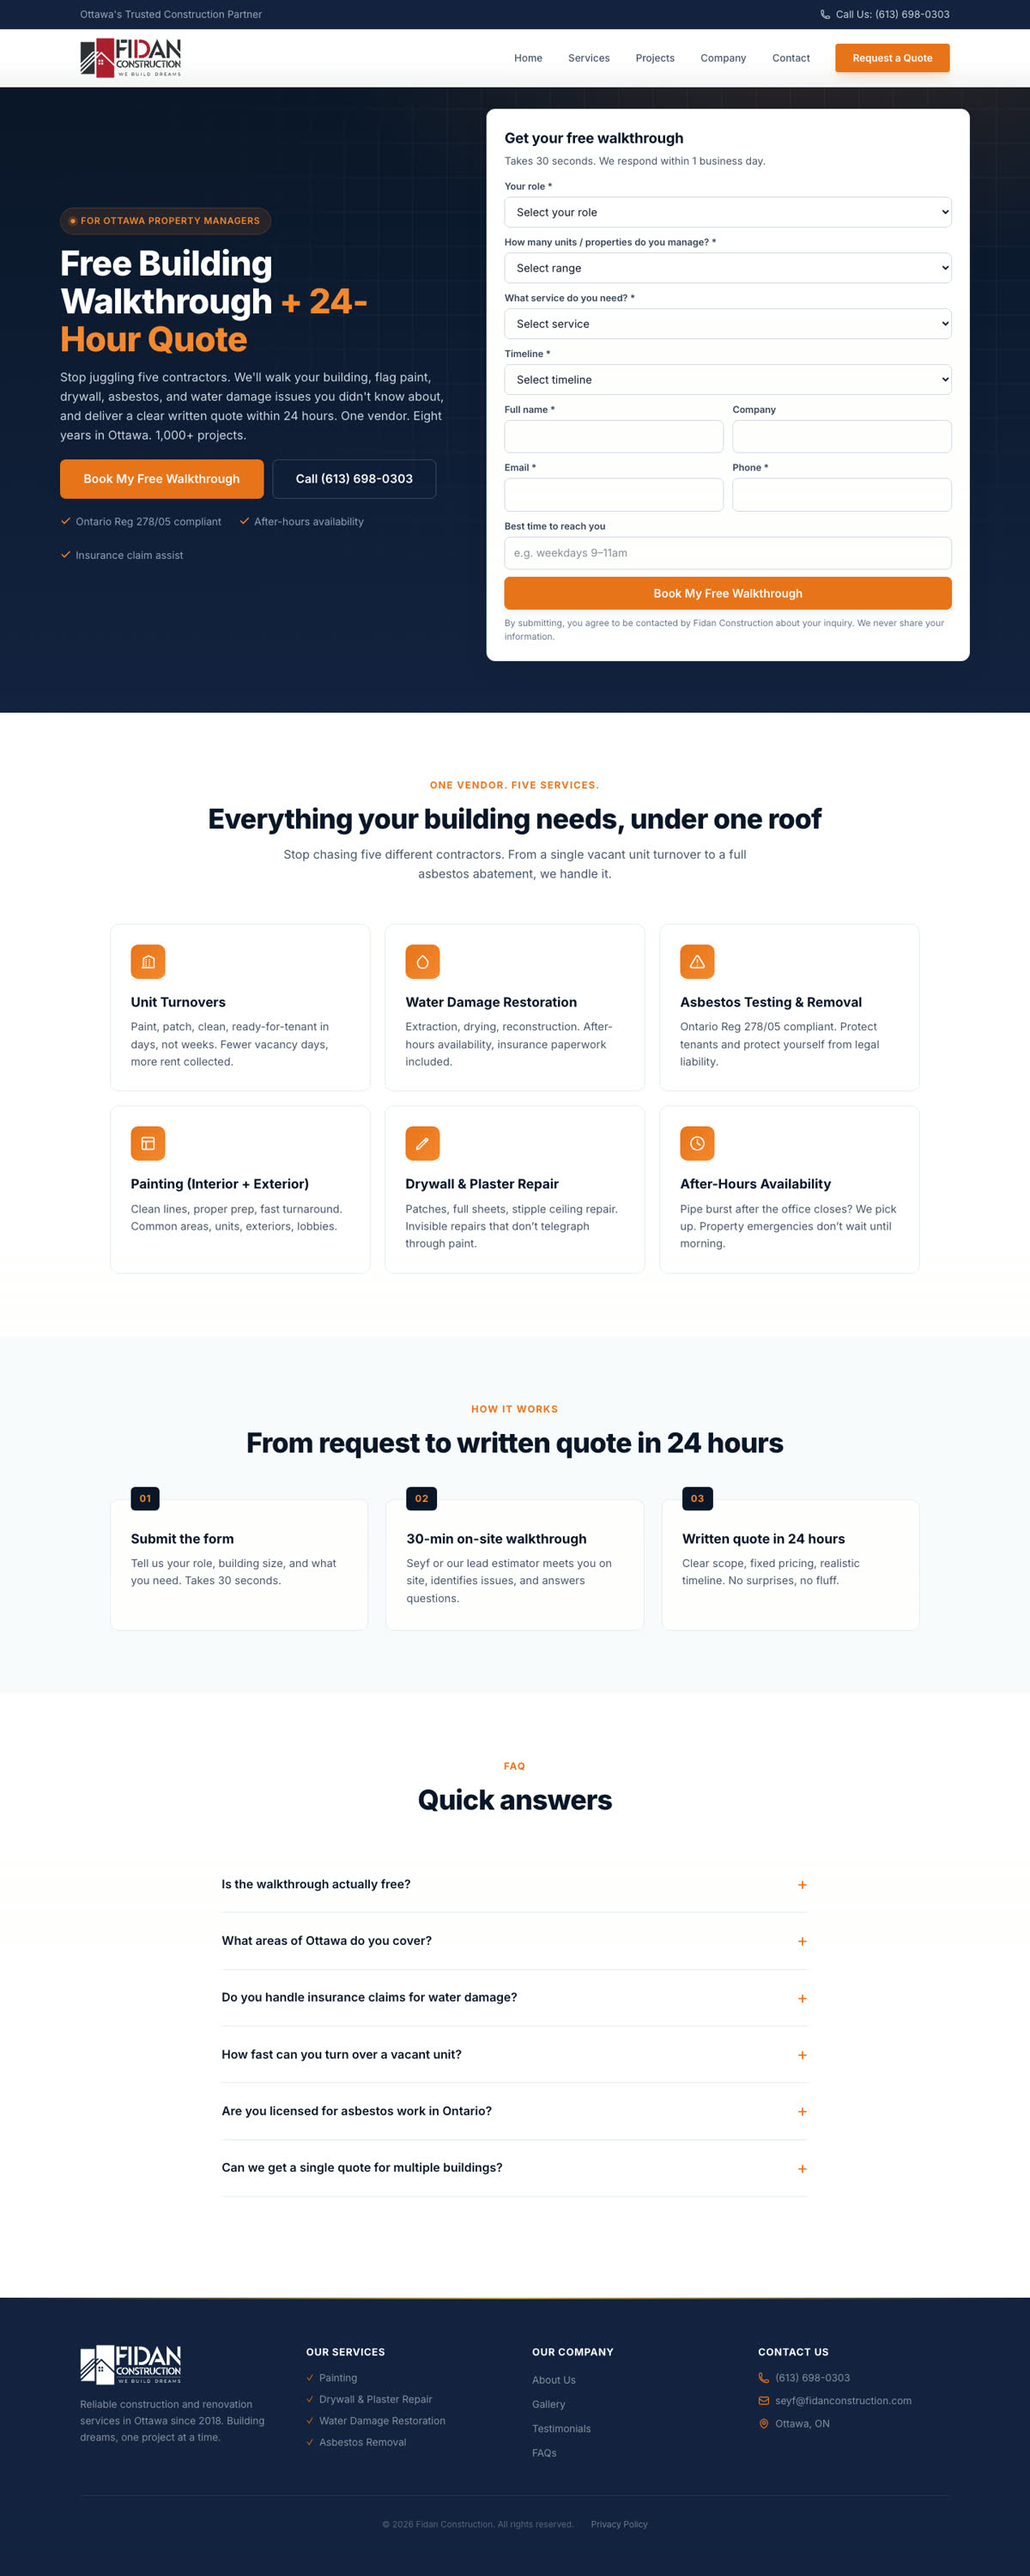
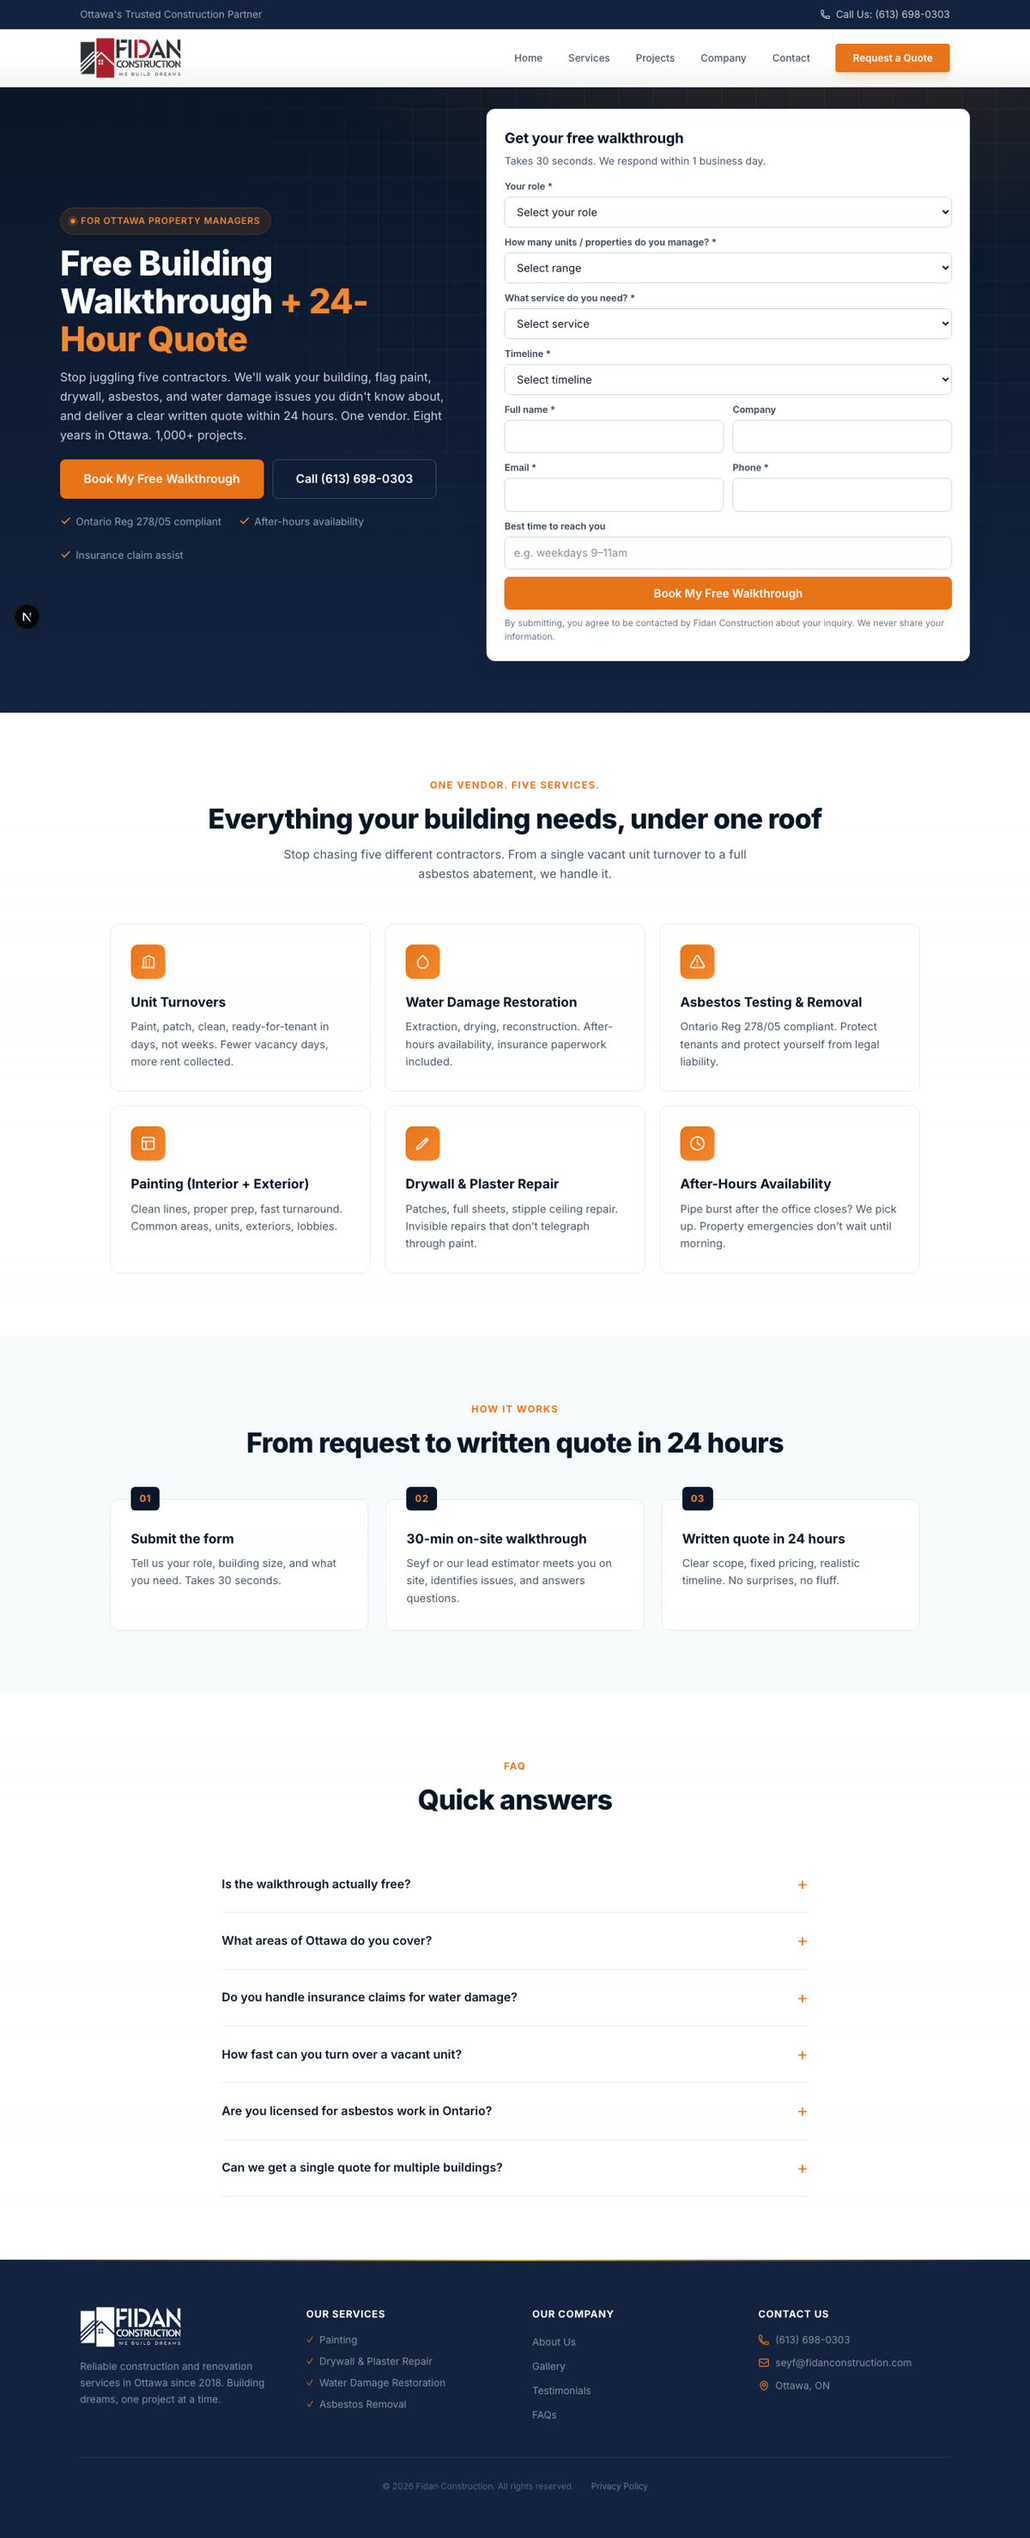
feat(portfolio): Fidan — real site captures from source + loading transition
Re-capture all four fidanconstruction.com pages by running the client's own
Next.js app locally and driving Chrome DevTools Protocol, instead of scraping
the live site. captureBeyondViewport keeps the viewport at 900px so the 100vh
hero renders at its intended size while the full scroll height is captured —
removing the dead bands the fixed-window captures produced. Scroll-reveal
sections are forced to their revealed state and lazy images awaited, so no
section or card captures blank.

Also add the LoadingTransition intro the sibling featured pages have; it was
omitted to protect the work-order voice, but consistency across the portfolio
wins.

diff --git a/src/components/portfolio/featured/FidanConstructionPage.tsx b/src/components/portfolio/featured/FidanConstructionPage.tsx
@@ -4,6 +4,7 @@ import Link from "next/link";
 import { useCallback, useEffect, useState } from "react";
 import { getFrameNumber } from "@/data/clients";
 import type { Client } from "@/data/clients";
+import { LoadingTransition } from "@/components/portfolio/LoadingTransition";
 
 type Props = { client: Client };
 
@@ -87,6 +88,14 @@ export function FidanConstructionPage({ client }: Props) {
 
   return (
     <div className="fx-page">
+      <LoadingTransition
+        frameNumber={frame}
+        clientName={client.name}
+        scope={["Ads", "Website", "SEO"]}
+        location="Ottawa, ON"
+        year={client.year}
+      />
+
       <header className="fx-rail">
         <Link className="fx-back" href="/portfolio">← Portfolio</Link>
         <span className="fx-rail-mid">WORK ORDER <b>{wo}</b> · FIDAN CONSTRUCTION</span>
